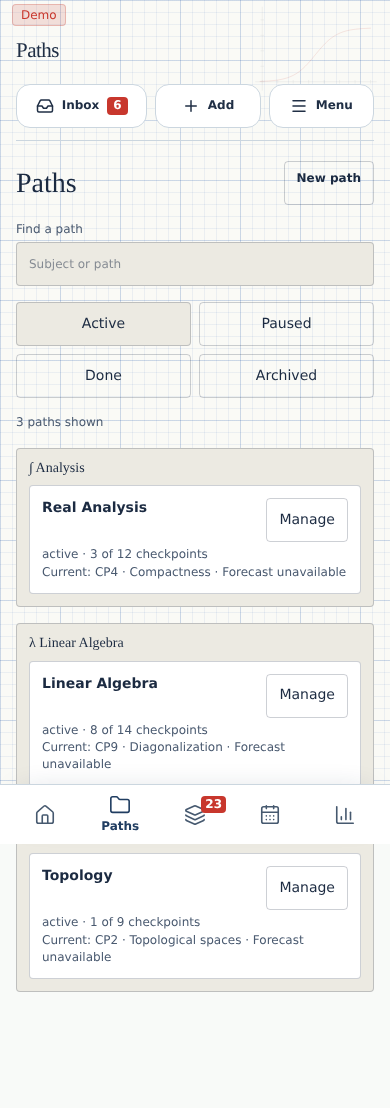
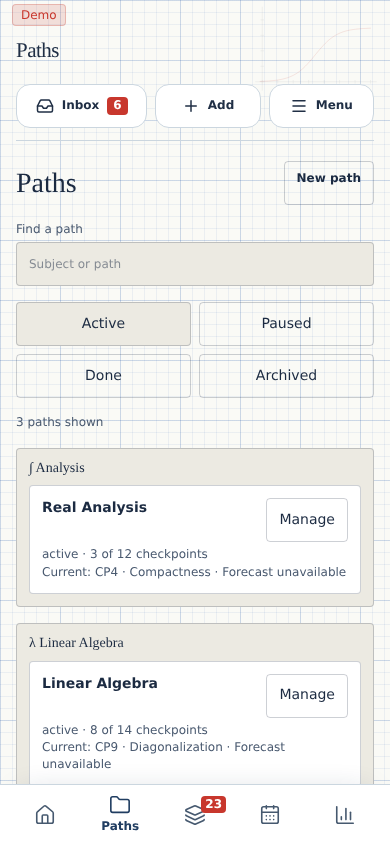
rules: recaptured N101 screenshots, corrected RELEASE.md, remove temporary capture logging
19 PNGs from run 42497431997 at ccad38e, after each screen loaded (no app code changed
since). RELEASE.md: Review undo is not covered (#1299), parity path, production
migration and account-delete status, audit correction and #1302.

Claude-Session: https://claude.ai/code/session_0172Sf9y142CunRAVpPDgXVw

diff --git a/tests/e2e/v6-release-audit.spec.ts b/tests/e2e/v6-release-audit.spec.ts
@@ -104,9 +104,8 @@ const captureDir=process.env.LEMMA_RELEASE_CAPTURE==='1'
 // Viewport captures (what a 390×844 phone shows): full-page captures drew the
 // fixed bottom navigation over the middle of long screens.
 async function releaseScreenshot(page:Page,file:string){
- const png=await page.screenshot({path:captureDir+'/'+file,
+ await page.screenshot({path:captureDir+'/'+file,
   animations:'disabled',scale:'css'});
- console.log('N101PNG '+file+' '+png.toString('base64')); // TEMP: extraction only
 }
 
 test('N101 screenshot capture of the real app, both palettes at 390x844',async({page})=>{

diff --git a/docs/v6/RELEASE.md b/docs/v6/RELEASE.md
@@ -1,6 +1,6 @@
 # Lemma v6 release audit (N101)
 
-**Release decision: HOLD (G7 defects: [#1298](https://github.com/Mymayankyadav/lemma/issues/1298), [#1299](https://github.com/Mymayankyadav/lemma/issues/1299), [#1300](https://github.com/Mymayankyadav/lemma/issues/1300)).** This is evidence tracking, not approval to make `v6Shell` default-on. N102 still requires the Owner's explicit approval and physical-device sign-off. Browser demo and isolated SQL results do not prove remote migration, MCP or account-delete deployment.
+**Release decision: HOLD (G7 defects: [#1298](https://github.com/Mymayankyadav/lemma/issues/1298), [#1299](https://github.com/Mymayankyadav/lemma/issues/1299), [#1300](https://github.com/Mymayankyadav/lemma/issues/1300), [#1302](https://github.com/Mymayankyadav/lemma/issues/1302)).** This is evidence tracking, not approval to make `v6Shell` default-on. N102 still requires the Owner's explicit approval and physical-device sign-off. Browser demo and isolated SQL results do not prove remote migration, MCP or account-delete deployment.
 
 ## Shipped behind the flag
 
@@ -16,11 +16,15 @@ npx playwright install chromium
 npm run e2e -- tests/e2e/v6-release-audit.spec.ts
 ```
 
-The N101 suite visits all 18 canonical routes and five additional v6 routes (including direct deep links) at 320/360/390px, Day/Night and 200% text. It checks v6 shell navigation, responsive overflow, theme and uncaught browser exceptions. It exercises real demo APIs for Focus pause/resume/Save → reload → Time log → Progress → Calendar/Back, plus Inbox clearance → Review confidence/grade/undo → Atlas → Planner/Escape. See also `v6-harden-slice`, `v6-harden-planning`, `v6-harden-learning`, `v6-rollback` and `acceptance-journey`. These are web/demo journeys, not live-account or physical-device certification.
+The N101 suite visits all 18 canonical routes and five additional v6 routes (including direct deep links) at 320/360/390px, Day/Night and 200% text. It checks v6 shell navigation, responsive overflow, theme and uncaught browser exceptions. It exercises real demo APIs for Focus pause/resume/Save → reload → Time log → Progress → Calendar/Back, plus Inbox clearance → Review confidence/grade → Atlas → Planner/Escape. Review has no undo yet (#1299); a separate expected-failure test tracks it. See also `v6-harden-slice`, `v6-harden-planning`, `v6-harden-learning`, `v6-rollback` and `acceptance-journey`. These are web/demo journeys, not live-account or physical-device certification.
+
+Every route check waits for the screen to finish loading before measuring: no "Loading…" text, no "<Thing> loading" or "<Thing> unavailable" state and no error screen. Deep links use ids that exist in the demo data (path `real-analysis`, checkpoint CP4, session 7, card N7, proposal `proposal-6`), and the path, checkpoint and card links must show their own content. Only the sideways-overflow measurement of the known #1298/#1300 cases is an expected failure; every other check on those routes must pass.
+
+Correction (owner, #1301): the first version of this audit (#1297) measured some screens while they still showed "Loading screen…", used a proposal id that does not exist, and marked whole route tests as expected failures. Its "other routes pass" result is superseded by run [42497431997](https://github.com/Mymayankyadav/lemma/actions/runs/42497431997) at `ccad38e`: 146 tests, 141 passed and 5 expected failures (Today and Kit overflow at 320px in Day and Night, and #1299).
 
 ## Screenshot provenance and capture
 
-The 19 checked-in PNGs under `docs/v6/screens/` are **real application** Chromium renders at 390×844 CSS pixels (Day/Night on nine destinations plus Focus Day). The capture test built and served the Vite/React application, using only a deterministic **demo** account, on CI run [42495300188](https://github.com/Mymayankyadav/lemma/actions/runs/42495300188) at source commit `073e9e9`. This PR commits those real-app images in place of the historical prototype PNGs. No application source changed between capture and commit. These images are browser evidence, not physical-device validation.
+The 19 checked-in PNGs under `docs/v6/screens/` are **real application** Chromium renders of the 390×844 viewport, i.e. what a phone screen shows (Day/Night on nine destinations plus Focus Day). Each capture waits for the screen to finish loading. The capture test built and served the Vite/React application with the deterministic **demo** account, on CI run [42497431997](https://github.com/Mymayankyadav/lemma/actions/runs/42497431997) at source commit `ccad38e`; no application source changed between capture and commit. The first set (#1297, run 42495300188) is superseded: several of its Day images showed the "Loading screen…" placeholder, and its full-page captures drew the bottom navigation across the middle of long screens. These images are browser evidence, not physical-device validation.
 
 To reproduce the checked-in app captures:
 
@@ -34,21 +38,21 @@ Normal CI writes fresh renders to `test-results/v6-release/screens/` and does no
 
 | Gate | Available evidence | Release status |
 | --- | --- | --- |
-| G1 schema coverage | Capability registry, N40, N94 SQL coverage assertion | Isolated audit; remote schema still needs verification |
-| G2 command parity | N94 `tests/mcp/parity.mjs` owner/app/MCP command, retry, version and undo checks | Not a production MCP smoke certificate |
+| G1 schema coverage | Capability registry, N40, N94 SQL coverage assertion | Production: Supabase deploy run [42495185219](https://github.com/Mymayankyadav/lemma/actions/runs/42495185219) (main `dc6630e`) applied every migration through `20261208110100` |
+| G2 command parity | N94 `tests/mcp/sql/parity.mjs` owner/app/MCP command, retry, version and undo checks | Not a production MCP smoke certificate |
 | G3 complete UI data | N98/N99/N100 empty/stress hardening and N101 route matrix | Demo projections; live errors/nulls require owner test |
 | G4 consistency | N94 parity, N98 effort reconciliation, N99 DST and N101 cross-route saved minutes | Second-device and real-owner refresh still required |
 | G5 preserved history | N97 SQL upgrade rehearsal, N96 rollback and N95 export tests | Production backup/restore not asserted |
-| G6 ownership/deletion | N94 two-owner isolation and N103 account deletion SQL | Actual account-delete Edge deployment must be checked |
-| G7 visible behavior | N98/N99/N100/N101 browser specs and capture script | Real-app PNGs checked in; physical checks and #1298/#1299/#1300 pending |
+| G6 ownership/deletion | N94 two-owner isolation and N103 account deletion SQL | `account-delete` Edge Function deployed and active since 2026-11-08; live deletion is on the Owner checklist |
+| G7 visible behavior | N98/N99/N100/N101 browser specs and capture script | Real-app PNGs checked in; physical checks and #1298/#1299/#1300/#1302 pending |
 
-N101 found 320px Today overflow (#1298), missing durable Review undo (#1299), and 320px Kit overflow (#1300). Each remains an open issue. Their expected-failure tests execute and preserve the failing assertions; CI acceptance does not certify that those experiences pass. The release is blocked until the separate bug fixes land.
+N101 found 320px Today overflow (#1298), missing durable Review undo (#1299), and 320px Kit overflow (#1300); the corrected captures also show the Atlas header losing its side padding, so the title overlaps the Demo badge (#1302). Each remains an open issue. Their expected-failure tests execute and preserve the failing assertions; CI acceptance does not certify that those experiences pass. The release is blocked until the separate bug fixes land.
 
 **None of G1–G7 is labelled production-passed merely because the test exists.** Attach CI run IDs and test results for the exact commit and the Owner's accepted device evidence before N102.
 
 ## Known limitations
 
-The flag is default-off. Isolated demo state does not certify cross-device sync, remote RLS, SQL deployment, MCP parity or live deletion. The N103 completion note identifies an account-delete deployment-step regression after an automated revert; verify the endpoint rather than assuming it is deployed. iOS Safari, Android Chrome, installed-PWA keyboard/IME, safe areas, screen-reader behavior and OS Back are outside CI Chromium. The screenshot directory now contains real-app Chromium captures from CI run 42495300188, but not physical-device screenshots. Real calendar providers, recurring blocks and native Focus surfaces are intentionally excluded.
+The flag is default-off. Isolated demo state does not certify cross-device sync, remote RLS, SQL deployment, MCP parity or live deletion. The account-delete deployment step that an automated revert removed was re-landed (#1232) and the function is deployed; live deletion still belongs to the Owner checklist. iOS Safari, Android Chrome, installed-PWA keyboard/IME, safe areas, screen-reader behavior and OS Back are outside CI Chromium. The screenshot directory contains real-app Chromium captures from CI run 42497431997, not physical-device screenshots. Real calendar providers, recurring blocks and native Focus surfaces are intentionally excluded.
 
 ## Owner physical-device checklist (complete before N102)
 

diff --git a/docs/v6/screens/README.md b/docs/v6/screens/README.md
@@ -1,7 +1,7 @@
 # Real application screenshots — N101
 
-These 19 PNGs were captured from the **actual built Vite/React application**, replacing the historic standalone v6 mockup images. The screenshot test `tests/e2e/v6-release-audit.spec.ts` renders the real app at 390×844 CSS pixels with `?demo=1&flags=v6Shell`: both Day/Night on nine screens and Focus in Day. Provenance: source commit `073e9e9`, [CI run 42495300188](https://github.com/Mymayankyadav/lemma/actions/runs/42495300188). App source files were not modified between this run and the image commit.
+These 19 PNGs were captured from the **actual built Vite/React application**, replacing the historic standalone v6 mockup images. The screenshot test `tests/e2e/v6-release-audit.spec.ts` renders the real app's 390×844 viewport with `?demo=1&flags=v6Shell` after each screen has finished loading: both Day/Night on nine screens and Focus in Day. Provenance: source commit `ccad38e`, [CI run 42497431997](https://github.com/Mymayankyadav/lemma/actions/runs/42497431997). App source files were not modified between this run and the image commit. They replace the first set from run 42495300188, several of which showed the loading placeholder.
 
 Reproduce/overwrite the screenshots with `LEMMA_RELEASE_CAPTURE=1 npm run e2e -- tests/e2e/v6-release-audit.spec.ts -g 'N101 screenshot capture'`. A normal CI test writes renders to `test-results/v6-release/screens/` instead.
 
-These files do **not** certify the 320/360/390px audit at 200% text or physical-device behavior. Known G7 defects [#1298](https://github.com/Mymayankyadav/lemma/issues/1298) (Today overflow), [#1299](https://github.com/Mymayankyadav/lemma/issues/1299) (Review Undo), and [#1300](https://github.com/Mymayankyadav/lemma/issues/1300) (Kit overflow) remain open.
+These files do **not** certify the 320/360/390px audit at 200% text or physical-device behavior. Known G7 defects [#1298](https://github.com/Mymayankyadav/lemma/issues/1298) (Today overflow), [#1299](https://github.com/Mymayankyadav/lemma/issues/1299) (Review Undo), and [#1300](https://github.com/Mymayankyadav/lemma/issues/1300) (Kit overflow) and [#1302](https://github.com/Mymayankyadav/lemma/issues/1302) (Atlas header padding) remain open.

diff --git a/docs/current/N101.md b/docs/current/N101.md
@@ -7,3 +7,5 @@ Added a full 23-route Playwright browser matrix at 320/360/390px, explicit Day/N
 Known release defects filed as [#1298](https://github.com/Mymayankyadav/lemma/issues/1298) (320px Today overflow at 200% text), [#1299](https://github.com/Mymayankyadav/lemma/issues/1299) (v6 Review grade has no Undo), and [#1300](https://github.com/Mymayankyadav/lemma/issues/1300) (320px Kit overflow). The browser suite exercises these as known expected failures rather than silently marking G7 passed.
 
 All 19 screenshots now come from the actual Vite app (run 42495300188, source `073e9e9`) and replace historical mockup PNGs. The 138-case browser route matrix identifies the three tracked release defects while other routes pass. The Owner's physical-device and live-data checks remain required by N102; G7 remains HOLD.
+
+Owner correction (#1301): route checks and captures now wait for each screen to finish loading, deep links use existing demo ids with content checks, and only the overflow measurement of the known defects is an expected failure. Screenshots recaptured (run 42497431997, `ccad38e`). The corrected captures exposed #1302 (Atlas header padding). RELEASE.md facts corrected: Review undo is not covered, parity test path, and production migration and account-delete deployment status.
